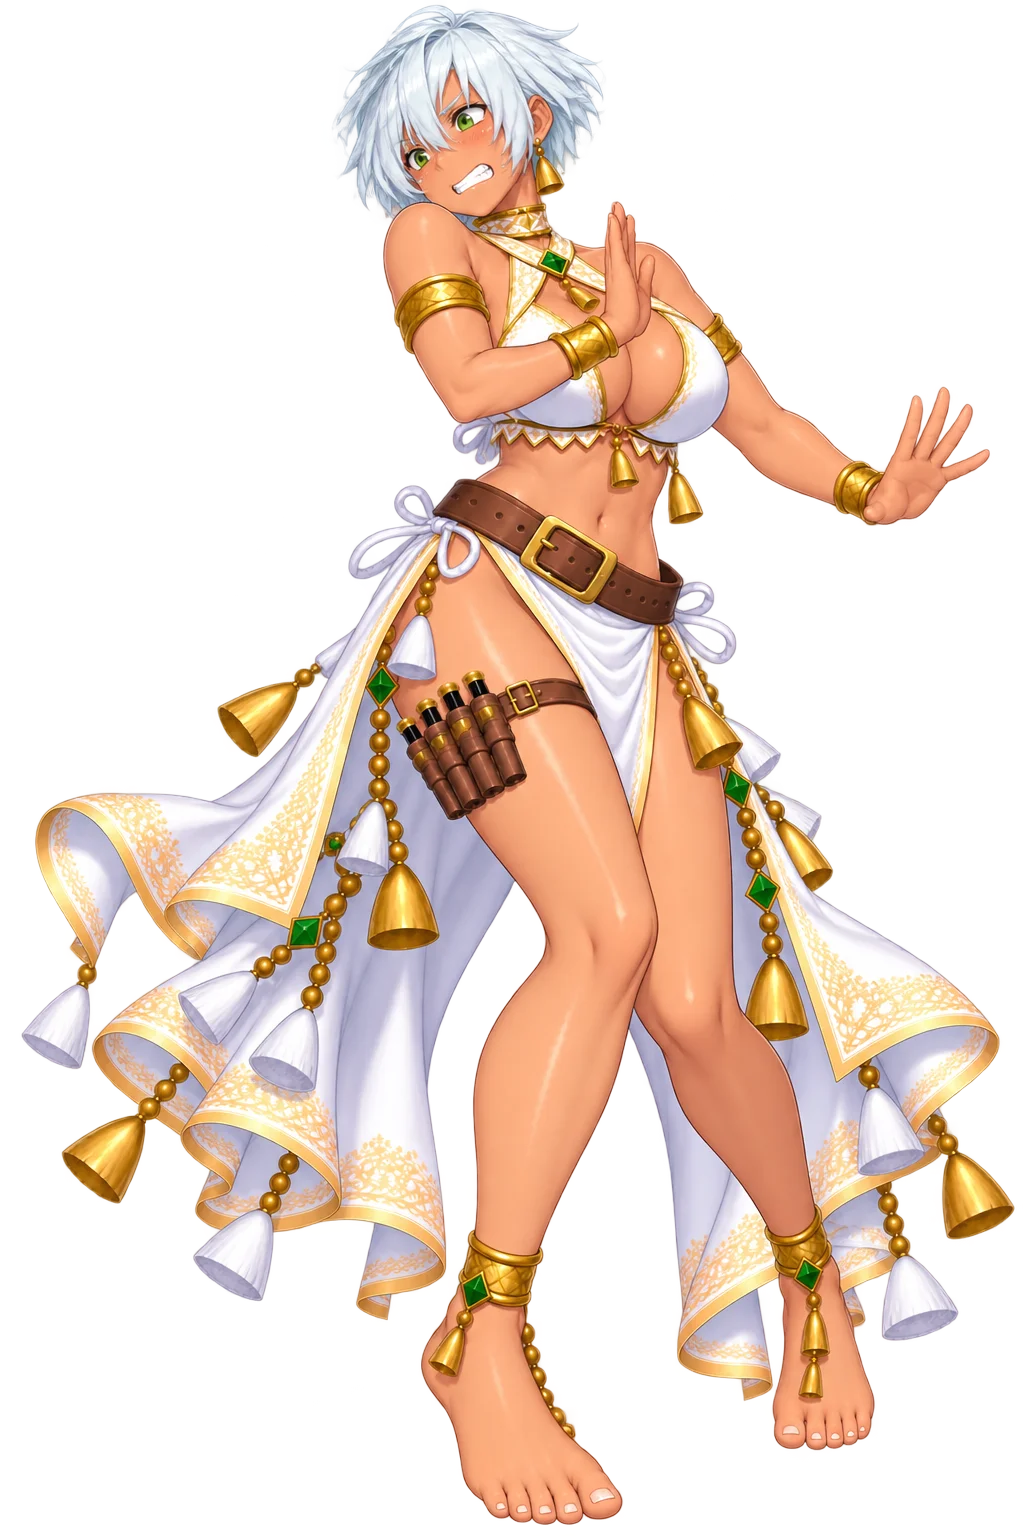
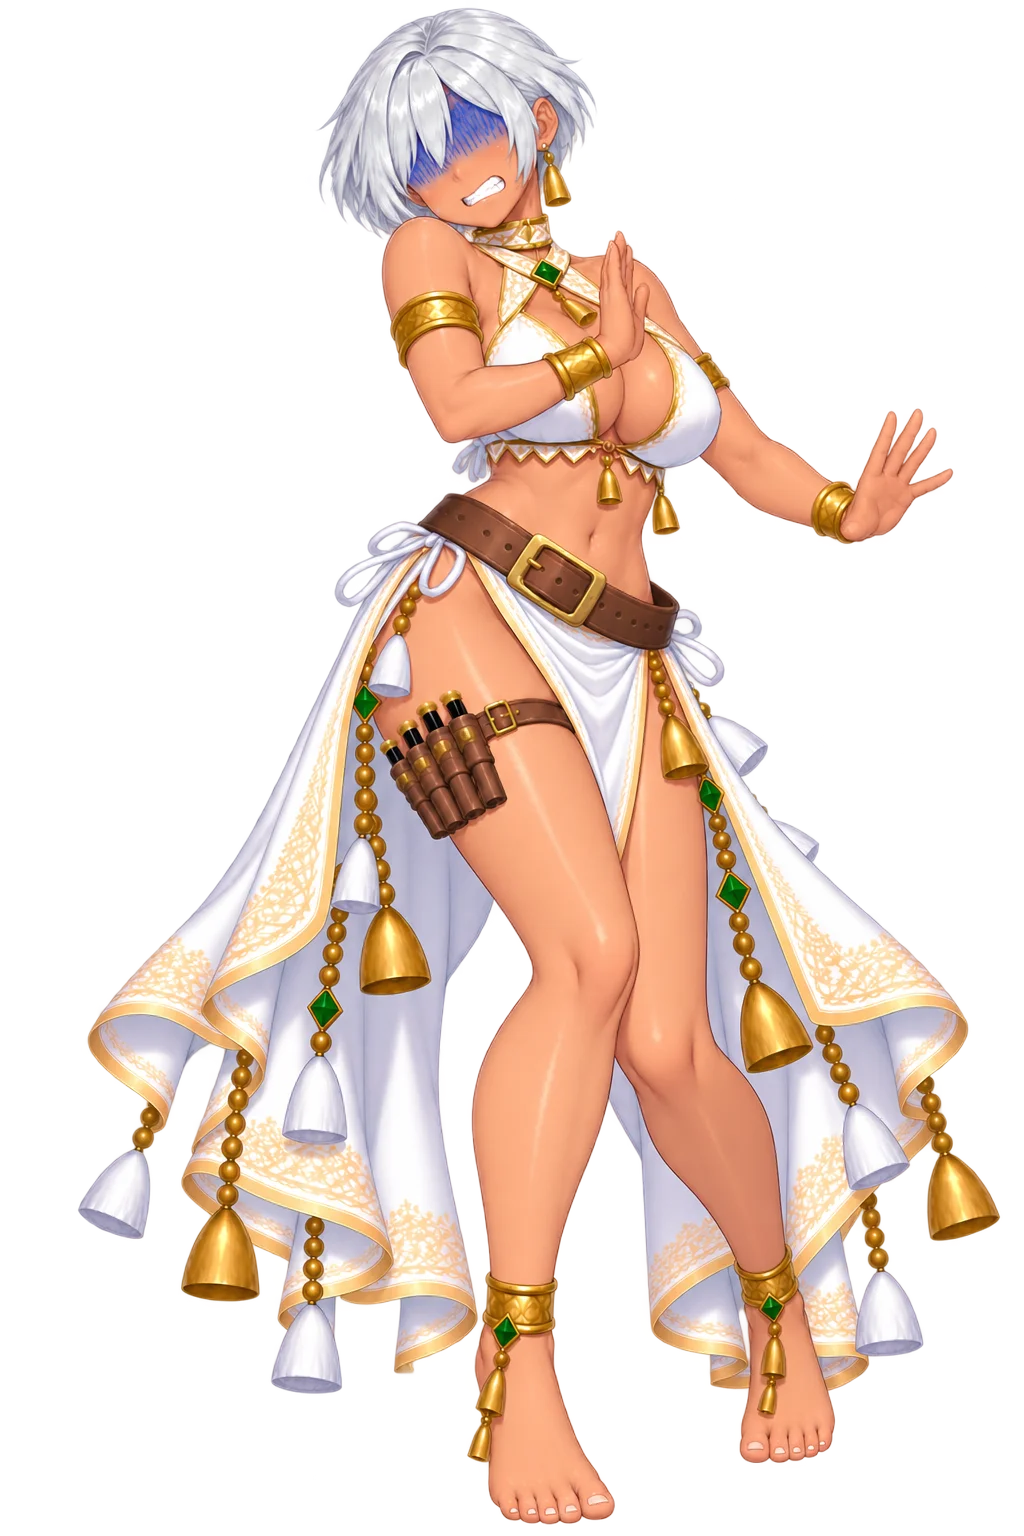
revert(索拉娜): die 還原回 95d52262^ —— 重製版把膚色洗白了
Ray：「sorana_si_die 也修壞了 還原」

sha1 e06777d433dc，與 95d52262^ 逐位元相同。

⚠⚠⚠ 這一張與 tease／amaze 相反：**它要跳 ?v=3**。
  speakers.js:650 的 die 已經掛著 ?v=2（第二輪那一批的版號早就接上線了）
  ⇒ 玩家快取裡存的是重製版。換回檔案而不跳版號，他們會繼續看到洗白的那張。

判準：看線上 speakers.js 現在寫什麼，不要照「有沒有退件」推論 ——
  tease／amaze 的版號還沒接 ⇒ 還原後不必跳（掛了是白掛）
  die 接了            ⇒ 還原後一定要跳 ?v=3

⚠ 照實報：還原後四項有一項不過 —— 色相 238.2（門檻 <220）。
第二輪重製的目的正是「髮色回冰藍白」，所以這張是拿「膚色對、髮色不對」
換掉「髮色對、膚色不對」。要兩件都對得重畫一次，等 Ray 決定。

diff --git a/_TO_CODE_20260922.md b/_TO_CODE_20260922.md
@@ -46,6 +46,15 @@
 ⚠ `battlecry` 在這一輪被覆蓋了**兩次**（第三輪重製 ＋ 六張表情差分的基底），
 但它本來就在「加 `?v=2`」那張表上且尚未被接 ⇒ **仍然只要 `?v=2`**。
 
+### 2.1b ⚠ `die` 要跳 **`?v=3`**（與上面那幾張不同）
+
+Ray 退了 `sorana_si_die` 的重製版（膚色被洗白），檔案已還原回 `95d52262^`。
+但 **`die` 的 `?v=2` 已經上線**（`speakers.js:650`）⇒ 玩家快取裡是重製版，
+不跳版號他們會繼續看到被洗白的那一張。**改成 `?v=3`。**
+
+⚠⚠ 判準：**看線上 `speakers.js` 現在寫什麼**，不要照「有沒有退件」推論 ——
+`tease`／`amaze` 的版號還沒接，所以還原後**不必跳**；`die` 接了，所以**一定要跳**。
+
 ### 2.2 新鍵（**8 個**，都是新檔，**不必 `?v=`**）
 
     // battlecry 表情差分 ×5 —— 取景值直接抄 battlecry（六張的 alpha bbox 全是 (7,1503,0,1023)）
